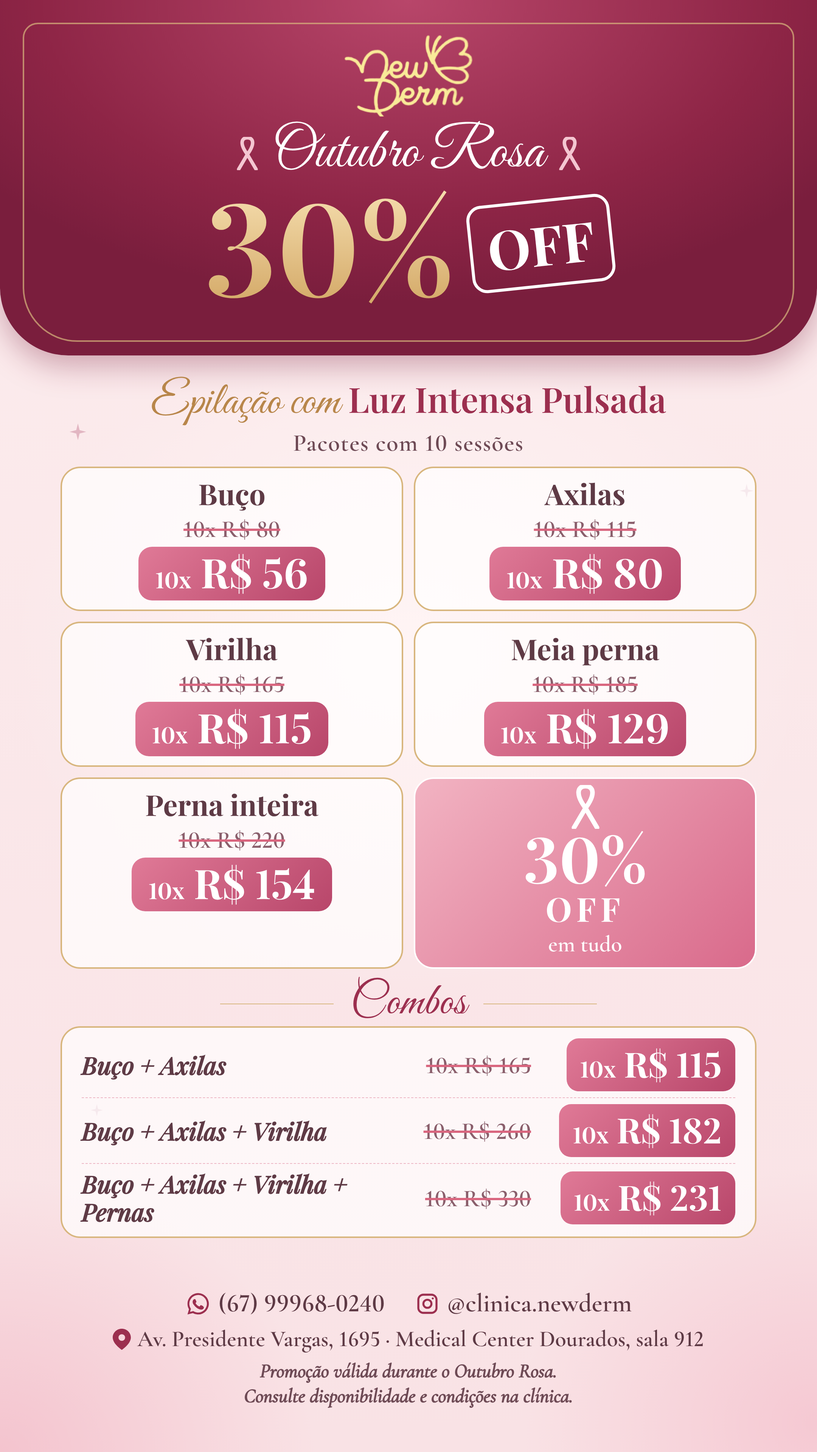
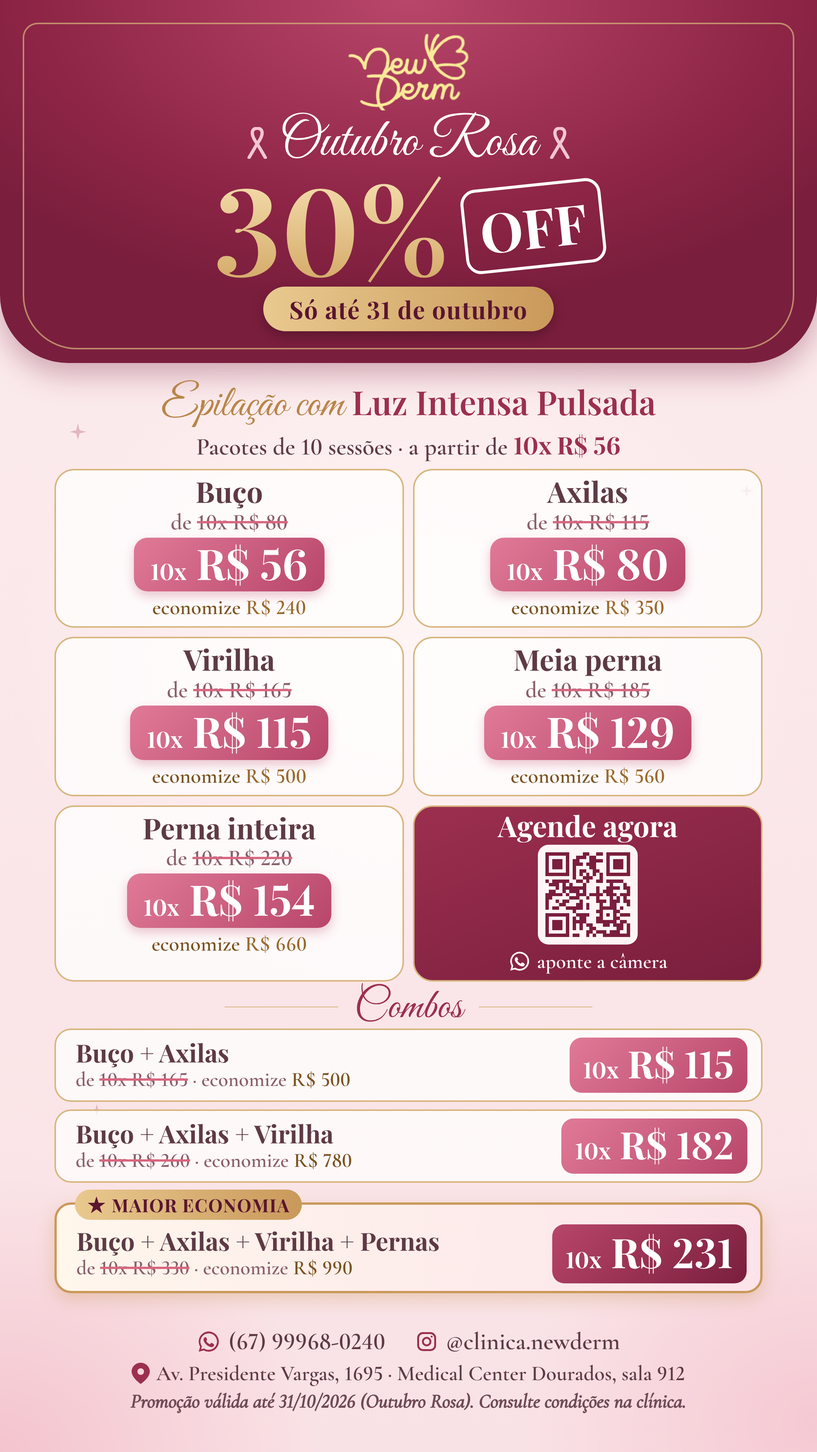
Opções B e C com foco em conversão: economia, prazo, destaque e CTA com QR
Claude-Session: https://claude.ai/code/session_01YCM2u15pHTsNBGbgB1w3ys

diff --git a/identidade-visual/modelo-tabela/opcao_b.html b/identidade-visual/modelo-tabela/opcao_b.html
@@ -118,50 +118,59 @@
   .note{max-width:820px;text-align:center;line-height:1.25}
 </style>
 <style>
-  .band{position:absolute;left:0;right:0;top:0;height:560px;border-radius:0 0 90px 90px;text-align:center;
-    background:radial-gradient(700px 400px at 50% 0%,#B8466A,#8E2546 70%,#7A1E3D);box-shadow:0 14px 40px rgba(122,30,61,.35)}
-  .band::after{content:"";position:absolute;left:30px;right:30px;bottom:18px;top:30px;border:2px solid rgba(216,182,126,.7);border-radius:20px 20px 72px 72px}
-  .blogo{width:190px;margin-top:58px;filter:brightness(1.25) saturate(1.1)}
-  .bros{font-family:"Great Vibes";color:#fff;font-size:84px;line-height:1;margin-top:6px;display:flex;align-items:center;justify-content:center;gap:18px}
-  .bbig{display:flex;align-items:center;justify-content:center;gap:20px;margin-top:-4px}
-  .bbig span{font-family:"Playfair Display";font-weight:700;font-size:210px;line-height:1;color:#F1D29B;
-    background:linear-gradient(180deg,#F8E2B4,#D3A866);-webkit-background-clip:text;color:transparent}
-  .bbig em{font-style:normal;font-family:"Playfair Display";font-weight:700;font-size:86px;color:#fff;border:4px solid #fff;border-radius:20px;padding:6px 20px;transform:rotate(-6deg)}
-  .bcontent{position:absolute;left:80px;right:80px;top:590px;text-align:center}
-  .btitle{font-family:"Playfair Display";font-weight:600;color:var(--wine);font-size:46px}
-  .btitle span{font-family:"Great Vibes";font-weight:400;color:var(--gold);font-size:60px}
-  .bsub{font-size:32px;font-weight:700;color:#6E4A55;margin-top:-4px;letter-spacing:1px}
-  .grid{display:grid;grid-template-columns:1fr 1fr;gap:18px;margin-top:18px}
-  .pc{background:rgba(255,255,255,.7);border:2px solid var(--gold-l);border-radius:26px;padding:14px 10px 16px}
-  .pn{font-family:"Playfair Display";font-weight:700;font-size:38px;color:#5E3A45}
-  .po{font-size:32px;font-weight:600;color:#8A5F6C;margin-top:2px} .po s{text-decoration-color:#D9667F;text-decoration-thickness:2.5px}
-  .pw{display:inline-block;margin-top:8px;font-family:"Playfair Display";font-weight:700;font-size:58px;line-height:1.1;color:#fff;
-    background:linear-gradient(135deg,#E07A97,#B8466A);border-radius:18px;padding:4px 22px 8px}
-  .pw small,.cw small{font-size:30px}
-  .seal{background:linear-gradient(135deg,#F2B3C2,#D96A8B);color:#fff;display:flex;flex-direction:column;align-items:center;justify-content:center;border-color:#fff}
-  .s1{font-family:"Playfair Display";font-weight:700;font-size:96px;line-height:.9}
-  .s2{font-family:"Playfair Display";font-weight:700;font-size:44px;letter-spacing:6px}
-  .s3{font-size:30px;font-weight:700}
-  .bsec{display:flex;align-items:center;justify-content:center;gap:22px;margin-top:14px}
-  .bsec span{font-family:"Great Vibes";color:var(--wine);font-size:66px;line-height:1}
-  .bsec i{width:150px;height:1.5px;background:var(--gold-l)}
-  .combos{background:rgba(255,255,255,.7);border:2px solid var(--gold-l);border-radius:26px;padding:6px 26px}
-  .cr{display:grid;grid-template-columns:1fr 170px 270px;align-items:center;padding:12px 0;border-bottom:1px dashed rgba(229,154,174,.7);text-align:left}
-  .cr:last-child{border-bottom:none}
-  .cn{font-family:"Playfair Display";font-style:italic;font-weight:600;font-size:32px;color:#5E3A45;line-height:1.15}
-  .co{font-size:32px;font-weight:600;color:#8A5F6C;text-align:right} .co s{text-decoration-color:#D9667F;text-decoration-thickness:2.5px}
-  .cw{justify-self:end;font-family:"Playfair Display";font-weight:700;font-size:50px;color:#fff;background:linear-gradient(135deg,#E07A97,#B8466A);border-radius:16px;padding:2px 18px 6px}
-  .deco[style*="right:110px;top:120px"],.deco[style*="left:250px;top:160px"],.deco[style*="left:60px;top:1010px"],.deco[style*="right:52px;top:1080px"]{display:none}
-  svg.deco[width="330"]{display:none}
+  .deco[style*="right:110px;top:120px"],.deco[style*="left:250px;top:160px"],.deco[style*="left:60px;top:1010px"],.deco[style*="right:52px;top:1080px"],svg.deco[width="330"]{display:none}
+  .xs{font-variant-numeric:lining-nums}
+  .ft{position:absolute;left:60px;right:60px;bottom:52px;text-align:center;color:#5E3A45}
+  .ftc{display:flex;justify-content:center;gap:40px;font-size:32px;font-weight:700}
+  .ftc span{display:flex;align-items:center;gap:10px}
+  .fta{display:flex;justify-content:center;align-items:center;gap:8px;font-size:28px;font-weight:600;margin-top:6px}
+  .ftn{font-size:26px;font-weight:600;font-style:italic;margin-top:4px;color:#6E4A55}
   .frame{display:none}
-  .band{height:470px} .blogo{width:170px;margin-top:46px;filter:brightness(1.75) saturate(.75)}
-  .bsec{margin-top:16px !important}
-  .bros{font-size:76px} .bbig span{font-size:170px} .bbig em{font-size:72px}
-  .bcontent{top:495px}
-  .grid{gap:14px;margin-top:12px} .pc{padding:8px 10px 12px} .pw{margin-top:4px;font-size:54px}
-  .s1{font-size:84px}
-  .bsec{margin-top:6px} .bsec span{font-size:60px}
-  .cr{padding:8px 0} .cw{font-size:46px}
+  .band{position:absolute;left:0;right:0;top:0;height:500px;border-radius:0 0 90px 90px;text-align:center;
+    background:radial-gradient(700px 400px at 50% 0%,#B8466A,#8E2546 70%,#7A1E3D);box-shadow:0 14px 40px rgba(122,30,61,.35)}
+  .band::after{content:"";position:absolute;left:30px;right:30px;bottom:18px;top:30px;border:2px solid rgba(216,182,126,.7);border-radius:20px 20px 72px 72px;pointer-events:none}
+  .blogo{width:160px;margin-top:44px;filter:brightness(1.75) saturate(.75)}
+  .bros{font-family:"Great Vibes";color:#fff;font-size:72px;line-height:1;margin-top:2px;display:flex;align-items:center;justify-content:center;gap:16px}
+  .bbig{display:flex;align-items:center;justify-content:center;gap:20px;margin-top:-6px}
+  .bbig span{font-family:"Playfair Display";font-weight:700;font-size:170px;line-height:1;background:linear-gradient(180deg,#F8E2B4,#D3A866);-webkit-background-clip:text;color:transparent}
+  .bbig em{font-style:normal;font-family:"Playfair Display";font-weight:700;font-size:72px;color:#fff;border:4px solid #fff;border-radius:20px;padding:4px 18px;transform:rotate(-6deg)}
+  .urg{display:inline-block;margin-top:2px;padding:8px 34px;border-radius:40px;background:linear-gradient(90deg,#E9C98F,#C9995A);color:#5A1530;
+    font-family:"Playfair Display";font-weight:700;font-size:32px;letter-spacing:1px;box-shadow:0 6px 16px rgba(0,0,0,.25)}
+  .bc{position:absolute;left:72px;right:72px;top:520px;text-align:center}
+  .bt{font-family:"Playfair Display";font-weight:600;color:var(--wine);font-size:44px}
+  .bt span{font-family:"Great Vibes";font-weight:400;color:var(--gold);font-size:58px}
+  .bs{font-size:32px;font-weight:600;color:#5E3A45;margin-top:-6px} .bs b{color:var(--wine);font-family:"Playfair Display"}
+  .grid{display:grid;grid-template-columns:1fr 1fr;gap:14px;margin-top:12px}
+  .pc{background:rgba(255,255,255,.75);border:2px solid var(--gold-l);border-radius:26px;padding:8px 10px 10px}
+  .pn{font-family:"Playfair Display";font-weight:700;font-size:38px;color:#5E3A45;line-height:1.15}
+  .po{font-size:30px;font-weight:600;color:#8A5F6C} .po s,.ce s{text-decoration-color:#D9667F;text-decoration-thickness:2.5px}
+  .pw{display:inline-block;margin-top:2px;font-family:"Playfair Display";font-weight:700;font-size:56px;line-height:1.1;color:#fff;
+    background:linear-gradient(135deg,#E07A97,#B8466A);border-radius:18px;padding:2px 22px 8px;box-shadow:0 6px 14px rgba(184,70,106,.3)}
+  .pw small,.cw small{font-size:30px}
+  .pe{font-size:28px;color:#8A6230;font-weight:600;margin-top:4px} .pe b,.ce b{color:#9A6A2E;font-weight:700}
+  .cta{background:linear-gradient(160deg,#9C2F4F,#7A1E3D);border-color:var(--gold-l);color:#fff;display:flex;flex-direction:column;align-items:center;justify-content:center;gap:6px}
+  .ct1{font-family:"Playfair Display";font-weight:700;font-size:38px;line-height:1}
+  .qr{width:132px;height:132px;background:#FFF5F6;border-radius:14px;padding:10px}
+  .qr svg{width:100%;height:100%}
+  .qr path[stroke]{stroke:#7A1E3D}
+  .ct2{display:flex;align-items:center;gap:8px;font-size:27px;font-weight:700}
+  .bsec{display:flex;align-items:center;justify-content:center;gap:22px;margin-top:12px}
+  .bsec span{font-family:"Great Vibes";color:var(--wine);font-size:60px;line-height:1}
+  .bsec i{width:150px;height:1.5px;background:var(--gold-l)}
+  .combos{display:flex;flex-direction:column;gap:12px}
+  .cr{position:relative;display:flex;align-items:center;justify-content:space-between;background:rgba(255,255,255,.75);border:2px solid var(--gold-l);border-radius:22px;padding:10px 18px 10px 26px;text-align:left}
+  .cn{font-family:"Playfair Display";font-weight:700;font-size:33px;color:#5E3A45;line-height:1.15}
+  .ce{font-size:27px;font-weight:600;color:#8A5F6C}
+  .cw{flex:none;font-family:"Playfair Display";font-weight:700;font-size:50px;color:#fff;background:linear-gradient(135deg,#E07A97,#B8466A);border-radius:16px;padding:0 18px 6px}
+  .best{border:3px solid #C9995A;background:linear-gradient(90deg,#FFF6EC,#FCE4EA);box-shadow:0 8px 22px rgba(201,153,90,.35);margin-top:12px}
+  .best .cw{background:linear-gradient(135deg,#B8466A,#7A1E3D);font-size:54px}
+  .badge{position:absolute;top:-20px;left:24px;background:linear-gradient(90deg,#E9C98F,#C9995A);color:#5A1530;font-family:"Playfair Display";font-weight:700;font-size:24px;letter-spacing:1px;padding:4px 16px;border-radius:20px}
+  .best{padding-top:26px;margin-top:16px}
+  .pe,.ce b{color:#7A5320} .pe{font-weight:700}
+  .combos{gap:10px}
+  .band{height:480px} .bbig span{font-size:160px} .urg{margin-top:0}
+  .bc{top:500px} .grid{gap:12px;margin-top:10px} .pc{padding:6px 10px 8px}
+  .bsec{margin-top:6px} .bsec span{font-size:56px}
 </style>
 </head>
 <body>
@@ -231,23 +240,21 @@
 
 <div class="band">
   <img class="blogo" src="../logo-newderm-dourado.png" alt="New Derm">
-  <div class="bros"><svg width="30" height="44" viewBox="0 0 26 38"><path d="M13 20 C4 8 6 1 13 1 C20 1 22 8 13 20 L3 37 M13 20 L23 37" stroke="#F4C6D1" stroke-width="4" fill="none" stroke-linecap="round"/></svg> Outubro Rosa <svg width="30" height="44" viewBox="0 0 26 38"><path d="M13 20 C4 8 6 1 13 1 C20 1 22 8 13 20 L3 37 M13 20 L23 37" stroke="#F4C6D1" stroke-width="4" fill="none" stroke-linecap="round"/></svg></div>
+  <div class="bros"><svg width="28" height="42" viewBox="0 0 26 38"><path d="M13 20 C4 8 6 1 13 1 C20 1 22 8 13 20 L3 37 M13 20 L23 37" stroke="#F4C6D1" stroke-width="4" fill="none" stroke-linecap="round"/></svg> Outubro Rosa <svg width="28" height="42" viewBox="0 0 26 38"><path d="M13 20 C4 8 6 1 13 1 C20 1 22 8 13 20 L3 37 M13 20 L23 37" stroke="#F4C6D1" stroke-width="4" fill="none" stroke-linecap="round"/></svg></div>
   <div class="bbig"><span>30%</span><em>OFF</em></div>
+  <div class="urg">Só até 31 de outubro</div>
 </div>
-<div class="bcontent">
-  <div class="btitle"><span>Epilação com</span> Luz Intensa Pulsada</div>
-  <div class="bsub">Pacotes com 10 sessões</div>
-  <div class="grid"><div class="pc"><div class="pn">Buço</div><div class="po"><s>10x R$ 80</s></div><div class="pw"><small>10x</small> R$ 56</div></div><div class="pc"><div class="pn">Axilas</div><div class="po"><s>10x R$ 115</s></div><div class="pw"><small>10x</small> R$ 80</div></div><div class="pc"><div class="pn">Virilha</div><div class="po"><s>10x R$ 165</s></div><div class="pw"><small>10x</small> R$ 115</div></div><div class="pc"><div class="pn">Meia perna</div><div class="po"><s>10x R$ 185</s></div><div class="pw"><small>10x</small> R$ 129</div></div><div class="pc"><div class="pn">Perna inteira</div><div class="po"><s>10x R$ 220</s></div><div class="pw"><small>10x</small> R$ 154</div></div><div class="pc seal"><svg width="40" height="58" viewBox="0 0 26 38"><path d="M13 20 C4 8 6 1 13 1 C20 1 22 8 13 20 L3 37 M13 20 L23 37" stroke="#fff" stroke-width="4" fill="none" stroke-linecap="round"/></svg><div class="s1">30%</div><div class="s2">OFF</div><div class="s3">em tudo</div></div></div>
+<div class="bc">
+  <div class="bt"><span>Epilação com</span> Luz Intensa Pulsada</div>
+  <div class="bs">Pacotes de 10 sessões · a partir de <b>10x R$ 56</b></div>
+  <div class="grid"><div class="pc"><div class="pn">Buço</div><div class="po">de <s>10x R$ 80</s></div><div class="pw"><small>10x</small> R$ 56</div><div class="pe">economize <b>R$ 240</b></div></div><div class="pc"><div class="pn">Axilas</div><div class="po">de <s>10x R$ 115</s></div><div class="pw"><small>10x</small> R$ 80</div><div class="pe">economize <b>R$ 350</b></div></div><div class="pc"><div class="pn">Virilha</div><div class="po">de <s>10x R$ 165</s></div><div class="pw"><small>10x</small> R$ 115</div><div class="pe">economize <b>R$ 500</b></div></div><div class="pc"><div class="pn">Meia perna</div><div class="po">de <s>10x R$ 185</s></div><div class="pw"><small>10x</small> R$ 129</div><div class="pe">economize <b>R$ 560</b></div></div><div class="pc"><div class="pn">Perna inteira</div><div class="po">de <s>10x R$ 220</s></div><div class="pw"><small>10x</small> R$ 154</div><div class="pe">economize <b>R$ 660</b></div></div><div class="pc cta"><div class="ct1">Agende agora</div><div class="qr"><svg xmlns="http://www.w3.org/2000/svg" viewBox="0 0 25 25" shape-rendering="crispEdges"><path stroke="#7A1E3D" d="M0 0.5h7m4 0h2m2 0h2m1 0h7M0 1.5h1m5 0h1m2 0h3m1 0h2m3 0h1m5 0h1M0 2.5h1m1 0h3m1 0h1m1 0h2m3 0h4m1 0h1m1 0h3m1 0h1M0 3.5h1m1 0h3m1 0h1m1 0h3m1 0h3m3 0h1m1 0h3m1 0h1M0 4.5h1m1 0h3m1 0h1m1 0h1m4 0h2m3 0h1m1 0h3m1 0h1M0 5.5h1m5 0h1m1 0h1m1 0h2m2 0h2m2 0h1m5 0h1M0 6.5h7m1 0h1m1 0h1m1 0h1m1 0h1m1 0h1m1 0h7M8 7.5h1m2 0h3m2 0h1M0 8.5h1m1 0h5m2 0h2m1 0h1m2 0h2m1 0h5M1 9.5h3m1 0h1m1 0h1m3 0h1m7 0h1m3 0h1M3 10.5h1m1 0h7m3 0h1m2 0h4m1 0h2M1 11.5h2m2 0h1m1 0h3m1 0h1m3 0h1m1 0h3m4 0h1M0 12.5h5m1 0h1m2 0h3m1 0h4m1 0h3m1 0h3M0 13.5h2m5 0h3m2 0h1m2 0h1m3 0h1m1 0h1m1 0h1M0 14.5h1m2 0h1m1 0h2m3 0h1m4 0h3m1 0h3m1 0h2M0 15.5h1m3 0h2m3 0h2m1 0h1m3 0h1m2 0h2m3 0h1M0 16.5h1m1 0h2m2 0h5m1 0h1m3 0h5m1 0h1M8 17.5h1m6 0h2m3 0h2M0 18.5h7m2 0h4m3 0h1m1 0h1m1 0h1m1 0h3M0 19.5h1m5 0h1m1 0h1m1 0h2m3 0h2m3 0h2M0 20.5h1m1 0h3m1 0h1m1 0h4m3 0h6m1 0h2M0 21.5h1m1 0h3m1 0h1m1 0h1m1 0h1m1 0h2m3 0h2m1 0h3m1 0h1M0 22.5h1m1 0h3m1 0h1m1 0h1m1 0h1m2 0h2m6 0h2m1 0h1M0 23.5h1m5 0h1m5 0h2m1 0h3m1 0h3m2 0h1M0 24.5h7m1 0h2m2 0h1m1 0h1m2 0h8"/></svg>
+</div><div class="ct2"><svg width="30" height="30" viewBox="0 0 24 24"><path fill="#fff" d="M12 2a10 10 0 0 0-8.6 15.1L2 22l5-1.3A10 10 0 1 0 12 2Zm0 18.2c-1.5 0-3-.4-4.3-1.2l-.3-.2-3 .8.8-2.9-.2-.3A8.2 8.2 0 1 1 12 20.2Zm4.5-6.1c-.2-.1-1.5-.7-1.7-.8-.2-.1-.4-.1-.6.1l-.8 1c-.1.2-.3.2-.5.1a6.7 6.7 0 0 1-3.3-2.9c-.3-.4.3-.4.7-1.3.1-.2 0-.3 0-.4l-.8-1.8c-.2-.5-.4-.4-.6-.4h-.5c-.2 0-.4.1-.7.3-.2.3-.9.9-.9 2.2s.9 2.5 1.1 2.7c.1.2 1.8 2.8 4.4 3.9 1.6.7 2.3.8 3.1.6.5-.1 1.5-.6 1.7-1.2.2-.6.2-1.1.2-1.2-.1-.1-.3-.2-.5-.3Z"/></svg> aponte a câmera</div></div></div>
   <div class="bsec"><i></i><span>Combos</span><i></i></div>
-  <div class="combos"><div class="cr"><span class="cn">Buço + Axilas</span><span class="co"><s>10x R$ 165</s></span><span class="cw"><small>10x</small> R$ 115</span></div><div class="cr"><span class="cn">Buço + Axilas + Virilha</span><span class="co"><s>10x R$ 260</s></span><span class="cw"><small>10x</small> R$ 182</span></div><div class="cr"><span class="cn">Buço + Axilas + Virilha + Pernas</span><span class="co"><s>10x R$ 330</s></span><span class="cw"><small>10x</small> R$ 231</span></div></div>
+  <div class="combos"><div class="cr"><div class="cl"><div class="cn">Buço + Axilas</div><div class="ce">de <s>10x R$ 165</s> · economize <b>R$ 500</b></div></div><span class="cw"><small>10x</small> R$ 115</span></div><div class="cr"><div class="cl"><div class="cn">Buço + Axilas + Virilha</div><div class="ce">de <s>10x R$ 260</s> · economize <b>R$ 780</b></div></div><span class="cw"><small>10x</small> R$ 182</span></div><div class="cr best"><div class="badge">★ MAIOR ECONOMIA</div><div class="cl"><div class="cn">Buço + Axilas + Virilha + Pernas</div><div class="ce">de <s>10x R$ 330</s> · economize <b>R$ 990</b></div></div><span class="cw"><small>10x</small> R$ 231</span></div></div>
 </div>
-<div class="footer">
-  <div class="contacts">
-    <div><svg width="34" height="34" viewBox="0 0 24 24"><path fill="#9C2F4F" d="M12 2a10 10 0 0 0-8.6 15.1L2 22l5-1.3A10 10 0 1 0 12 2Zm0 18.2c-1.5 0-3-.4-4.3-1.2l-.3-.2-3 .8.8-2.9-.2-.3A8.2 8.2 0 1 1 12 20.2Zm4.5-6.1c-.2-.1-1.5-.7-1.7-.8-.2-.1-.4-.1-.6.1l-.8 1c-.1.2-.3.2-.5.1a6.7 6.7 0 0 1-3.3-2.9c-.3-.4.3-.4.7-1.3.1-.2 0-.3 0-.4l-.8-1.8c-.2-.5-.4-.4-.6-.4h-.5c-.2 0-.4.1-.7.3-.2.3-.9.9-.9 2.2s.9 2.5 1.1 2.7c.1.2 1.8 2.8 4.4 3.9 1.6.7 2.3.8 3.1.6.5-.1 1.5-.6 1.7-1.2.2-.6.2-1.1.2-1.2-.1-.1-.3-.2-.5-.3Z"/></svg>(67) 99968-0240</div>
-    <div><svg width="32" height="32" viewBox="0 0 24 24" fill="none" stroke="#9C2F4F" stroke-width="2"><rect x="3" y="3" width="18" height="18" rx="5"/><circle cx="12" cy="12" r="4"/><circle cx="17.3" cy="6.7" r="1" fill="#9C2F4F" stroke="none"/></svg>@clinica.newderm</div>
-  </div>
-  <div class="addr"><svg width="24" height="28" viewBox="0 0 24 28"><path fill="#9C2F4F" d="M12 0C5.4 0 0 5.2 0 11.6 0 20 12 28 12 28s12-8 12-16.4C24 5.2 18.6 0 12 0Zm0 16a4.4 4.4 0 1 1 0-8.8 4.4 4.4 0 0 1 0 8.8Z"/></svg>Av. Presidente Vargas, 1695 · Medical Center Dourados, sala 912</div>
-  <div class="note">Promoção válida durante o Outubro Rosa.<br>Consulte disponibilidade e condições na clínica.</div>
+<div class="ft">
+  <div class="ftc"><span><svg width="32" height="32" viewBox="0 0 24 24"><path fill="#9C2F4F" d="M12 2a10 10 0 0 0-8.6 15.1L2 22l5-1.3A10 10 0 1 0 12 2Zm0 18.2c-1.5 0-3-.4-4.3-1.2l-.3-.2-3 .8.8-2.9-.2-.3A8.2 8.2 0 1 1 12 20.2Zm4.5-6.1c-.2-.1-1.5-.7-1.7-.8-.2-.1-.4-.1-.6.1l-.8 1c-.1.2-.3.2-.5.1a6.7 6.7 0 0 1-3.3-2.9c-.3-.4.3-.4.7-1.3.1-.2 0-.3 0-.4l-.8-1.8c-.2-.5-.4-.4-.6-.4h-.5c-.2 0-.4.1-.7.3-.2.3-.9.9-.9 2.2s.9 2.5 1.1 2.7c.1.2 1.8 2.8 4.4 3.9 1.6.7 2.3.8 3.1.6.5-.1 1.5-.6 1.7-1.2.2-.6.2-1.1.2-1.2-.1-.1-.3-.2-.5-.3Z"/></svg>(67) 99968-0240</span><span><svg width="30" height="30" viewBox="0 0 24 24" fill="none" stroke="#9C2F4F" stroke-width="2"><rect x="3" y="3" width="18" height="18" rx="5"/><circle cx="12" cy="12" r="4"/><circle cx="17.3" cy="6.7" r="1" fill="#9C2F4F" stroke="none"/></svg>@clinica.newderm</span></div>
+  <div class="fta"><svg width="24" height="28" viewBox="0 0 24 28"><path fill="#9C2F4F" d="M12 0C5.4 0 0 5.2 0 11.6 0 20 12 28 12 28s12-8 12-16.4C24 5.2 18.6 0 12 0Zm0 16a4.4 4.4 0 1 1 0-8.8 4.4 4.4 0 0 1 0 8.8Z"/></svg>Av. Presidente Vargas, 1695 · Medical Center Dourados, sala 912</div>
+  <div class="ftn">Promoção válida até 31/10/2026 (Outubro Rosa). Consulte condições na clínica.</div>
 </div>
-</body>
-</html>
+</body></html>

diff --git a/identidade-visual/modelo-tabela/opcao_c.html b/identidade-visual/modelo-tabela/opcao_c.html
@@ -118,34 +118,55 @@
   .note{max-width:820px;text-align:center;line-height:1.25}
 </style>
 <style>
-  .ccontent{position:absolute;left:78px;right:78px;top:78px}
-  .chead{display:flex;align-items:center;justify-content:space-between}
-  .clogo{width:180px}
-  .cros{font-family:"Great Vibes";color:var(--wine);font-size:80px;line-height:1;margin-top:4px}
-  .ctit{font-size:36px;color:#6E4A55;font-weight:600;line-height:1.15;margin-top:6px}
-  .ctit b{font-family:"Playfair Display";color:var(--wine);font-size:42px}
-  .circle{position:relative;width:400px;height:400px;border-radius:50%;flex:none;color:#fff;text-align:center;
+  .deco[style*="right:110px;top:120px"],.deco[style*="left:250px;top:160px"],.deco[style*="left:60px;top:1010px"],.deco[style*="right:52px;top:1080px"],svg.deco[width="330"]{display:none}
+  .xs{font-variant-numeric:lining-nums}
+  .ft{position:absolute;left:60px;right:60px;bottom:52px;text-align:center;color:#5E3A45}
+  .ftc{display:flex;justify-content:center;gap:40px;font-size:32px;font-weight:700}
+  .ftc span{display:flex;align-items:center;gap:10px}
+  .fta{display:flex;justify-content:center;align-items:center;gap:8px;font-size:28px;font-weight:600;margin-top:6px}
+  .ftn{font-size:26px;font-weight:600;font-style:italic;margin-top:4px;color:#6E4A55}
+  .cc{position:absolute;left:76px;right:76px;top:70px}
+  .ch{display:flex;align-items:center;justify-content:space-between}
+  .clogo{width:170px}
+  .cros{font-family:"Great Vibes";color:var(--wine);font-size:78px;line-height:1}
+  .cmsg{font-size:30px;font-weight:700;color:#6E4A55;line-height:1.2;margin-top:4px}
+  .ctit{font-size:30px;color:#6E4A55;font-weight:600;margin-top:8px;line-height:1.2;max-width:470px}
+  .ctit b{font-family:"Playfair Display";color:var(--wine);font-size:36px;display:block}
+  .cwrap{position:relative;flex:none}
+  .circle{position:relative;width:370px;height:370px;border-radius:50%;color:#fff;text-align:center;
     background:radial-gradient(circle at 35% 30%,#EE9AB0,#C9557A 60%,#9C2F4F);display:flex;flex-direction:column;align-items:center;justify-content:center;
     box-shadow:0 18px 40px rgba(156,47,79,.35);transform:rotate(-6deg)}
   .ring{position:absolute;inset:14px;border-radius:50%;border:3px dashed #F1D29B}
-  .c1{font-family:"Playfair Display";font-weight:700;font-size:150px;line-height:.9;margin-top:4px}
-  .c2{font-family:"Playfair Display";font-weight:700;font-size:62px;letter-spacing:10px;color:#F8E2B4;line-height:1}
-  .c3{font-size:28px;font-weight:700;margin-top:6px}
-  .lbl{display:flex;align-items:center;gap:18px;margin:26px 0 12px}
+  .c1{font-family:"Playfair Display";font-weight:700;font-size:150px;line-height:.9}
+  .c2{font-family:"Playfair Display";font-weight:700;font-size:64px;letter-spacing:10px;color:#F8E2B4;line-height:1}
+  .urg{position:absolute;left:50%;bottom:-6px;transform:translateX(-50%) rotate(-3deg);white-space:nowrap;padding:8px 30px;border-radius:40px;
+    background:linear-gradient(90deg,#E9C98F,#C9995A);color:#5A1530;font-family:"Playfair Display";font-weight:700;font-size:34px;box-shadow:0 6px 16px rgba(122,30,61,.3)}
+  .lbl{display:flex;align-items:center;gap:18px;margin:22px 0 10px}
   .lbl::before,.lbl::after{content:"";flex:1;height:1.5px;background:var(--gold-l)}
-  .lbl span{font-family:"Playfair Display";font-style:italic;font-weight:600;font-size:36px;color:var(--wine)}
-  .tk{display:flex;align-items:stretch;margin-bottom:12px;border-radius:22px;overflow:hidden;border:2px solid var(--gold-l);background:rgba(255,255,255,.75);height:104px}
-  .tl{flex:1;padding:10px 26px;display:flex;flex-direction:column;justify-content:center}
-  .tn{font-family:"Playfair Display";font-weight:700;font-size:38px;color:#5E3A45;line-height:1.1}
-  .tc .tn{font-size:33px}
-  .to{font-size:30px;font-weight:600;color:#8A5F6C} .to s{text-decoration-color:#D9667F;text-decoration-thickness:2.5px}
-  .tr{width:330px;position:relative;background:linear-gradient(135deg,#E07A97,#A8355A);color:#fff;display:flex;flex-direction:column;align-items:center;justify-content:center;border-left:3px dashed #fff}
-  .tp{font-size:26px;font-weight:700;letter-spacing:3px;text-transform:uppercase;line-height:1;opacity:.95}
-  .tv{font-family:"Playfair Display";font-weight:700;font-size:56px;line-height:1.05}
-  .tv small{font-size:30px}
-  .deco[style*="right:110px;top:120px"],.deco[style*="left:60px;top:1010px"],.deco[style*="right:52px;top:1080px"],.deco[style*="left:250px;top:160px"]{display:none}
-  svg.deco[width="330"]{display:none}
-  .tk{height:112px;margin-bottom:13px} .lbl{margin:30px 0 14px} .clogo{width:200px}
+  .lbl span{font-family:"Playfair Display";font-style:italic;font-weight:600;font-size:34px;color:var(--wine)}
+  .tk{position:relative;display:flex;align-items:stretch;margin-bottom:11px;border-radius:22px;border:2px solid var(--gold-l);background:rgba(255,255,255,.8);height:104px}
+  .tl{flex:1;padding:6px 24px;display:flex;flex-direction:column;justify-content:center}
+  .tn{font-family:"Playfair Display";font-weight:700;font-size:35px;color:#5E3A45;line-height:1.1}
+  .to{font-size:27px;font-weight:600;color:#8A5F6C;line-height:1.15;display:inline} .to s{text-decoration-color:#D9667F;text-decoration-thickness:2.5px}
+  .te{font-size:26px;font-weight:700;color:#9A6A2E;line-height:1.15}
+  .tr{width:300px;border-radius:0 20px 20px 0;background:linear-gradient(135deg,#E07A97,#A8355A);color:#fff;display:flex;flex-direction:column;align-items:center;justify-content:center;border-left:3px dashed #fff}
+  .tp{font-size:24px;font-weight:700;letter-spacing:3px;text-transform:uppercase;line-height:1}
+  .tv{font-family:"Playfair Display";font-weight:700;font-size:54px;line-height:1.05}
+  .tv small{font-size:28px}
+  .tk.best{border:3px solid #C9995A;background:linear-gradient(90deg,#FFF6EC,#FCE4EA);box-shadow:0 8px 22px rgba(201,153,90,.35);margin-top:20px;height:112px}
+  .tk.best .tr{background:linear-gradient(135deg,#B8466A,#7A1E3D)}
+  .badge{position:absolute;top:-20px;left:22px;background:linear-gradient(90deg,#E9C98F,#C9995A);color:#5A1530;font-family:"Playfair Display";font-weight:700;font-size:24px;letter-spacing:1px;padding:3px 16px;border-radius:20px}
+  .ctab{display:flex;align-items:center;gap:24px;margin-top:16px;padding:14px 22px;border-radius:26px;background:linear-gradient(135deg,#9C2F4F,#7A1E3D);border:2px solid var(--gold-l);color:#fff;box-shadow:0 10px 26px rgba(122,30,61,.3)}
+  .ctab .qr{width:128px;height:128px;flex:none;background:#FFF5F6;border-radius:14px;padding:10px}
+  .ctab .qr svg{width:100%;height:100%}
+  .c1t{font-family:"Playfair Display";font-weight:700;font-size:40px;line-height:1.1;color:#F8E2B4}
+  .c2t{display:flex;align-items:center;gap:10px;font-family:"Playfair Display";font-weight:700;font-size:44px}
+  .c3t{font-size:27px;font-weight:600}
+  .ft{bottom:50px}
+  .to{display:block;font-size:28px} .to b{color:#7A5320;font-weight:700}
+  .tk{height:106px;margin-bottom:12px}
+  .tk.best{height:124px;margin-top:24px} .tk.best .tl{padding-top:22px}
+  .lbl{margin:26px 0 12px}
 </style>
 </head>
 <body>
@@ -213,27 +234,27 @@
 <svg class="deco" style="right:120px;top:420px" width="14" height="14"><use href="#spark"/></svg>
 <svg class="deco" style="left:120px;top:1460px" width="16" height="16"><use href="#spark"/></svg>
 
-<div class="ccontent">
-  <div class="chead">
-    <div class="cleft">
+<div class="cc">
+  <div class="ch">
+    <div class="cl">
       <img class="clogo" src="../logo-newderm-dourado.png" alt="New Derm">
       <div class="cros">Outubro Rosa</div>
-      <div class="ctit">Epilação com<br><b>Luz Intensa Pulsada</b></div>
+      <div class="cmsg">Mês do autocuidado:<br>cuide de você pagando menos.</div>
+      <div class="ctit">Epilação com <b>Luz Intensa Pulsada</b></div>
     </div>
-    <div class="circle"><div class="ring"></div><svg width="34" height="50" viewBox="0 0 26 38"><path d="M13 20 C4 8 6 1 13 1 C20 1 22 8 13 20 L3 37 M13 20 L23 37" stroke="#fff" stroke-width="4" fill="none" stroke-linecap="round"/></svg><div class="c1">30%</div><div class="c2">OFF</div><div class="c3">pacotes e combos</div></div>
+    <div class="cwrap"><div class="circle"><div class="ring"></div><svg width="30" height="44" viewBox="0 0 26 38"><path d="M13 20 C4 8 6 1 13 1 C20 1 22 8 13 20 L3 37 M13 20 L23 37" stroke="#fff" stroke-width="4" fill="none" stroke-linecap="round"/></svg><div class="c1">30%</div><div class="c2">OFF</div></div>
+      <div class="urg">Só até 31/10</div></div>
   </div>
   <div class="lbl"><span>Pacotes · 10 sessões</span></div>
-  <div class="tk"><div class="tl"><div class="tn">Buço</div><div class="to">de <s>10x R$ 80</s></div></div><div class="tr"><div class="tp">por</div><div class="tv"><small>10x</small> R$ 56</div></div></div><div class="tk"><div class="tl"><div class="tn">Axilas</div><div class="to">de <s>10x R$ 115</s></div></div><div class="tr"><div class="tp">por</div><div class="tv"><small>10x</small> R$ 80</div></div></div><div class="tk"><div class="tl"><div class="tn">Virilha</div><div class="to">de <s>10x R$ 165</s></div></div><div class="tr"><div class="tp">por</div><div class="tv"><small>10x</small> R$ 115</div></div></div><div class="tk"><div class="tl"><div class="tn">Meia perna</div><div class="to">de <s>10x R$ 185</s></div></div><div class="tr"><div class="tp">por</div><div class="tv"><small>10x</small> R$ 129</div></div></div><div class="tk"><div class="tl"><div class="tn">Perna inteira</div><div class="to">de <s>10x R$ 220</s></div></div><div class="tr"><div class="tp">por</div><div class="tv"><small>10x</small> R$ 154</div></div></div>
+  <div class="tk"><div class="tl"><div class="tn">Buço</div><div class="to">de <s>10x R$ 80</s> · <b>economize R$ 240</b></div></div><div class="tr"><div class="tp">por</div><div class="tv"><small>10x</small> R$ 56</div></div></div><div class="tk"><div class="tl"><div class="tn">Axilas</div><div class="to">de <s>10x R$ 115</s> · <b>economize R$ 350</b></div></div><div class="tr"><div class="tp">por</div><div class="tv"><small>10x</small> R$ 80</div></div></div><div class="tk"><div class="tl"><div class="tn">Virilha</div><div class="to">de <s>10x R$ 165</s> · <b>economize R$ 500</b></div></div><div class="tr"><div class="tp">por</div><div class="tv"><small>10x</small> R$ 115</div></div></div><div class="tk"><div class="tl"><div class="tn">Meia perna</div><div class="to">de <s>10x R$ 185</s> · <b>economize R$ 560</b></div></div><div class="tr"><div class="tp">por</div><div class="tv"><small>10x</small> R$ 129</div></div></div><div class="tk"><div class="tl"><div class="tn">Perna inteira</div><div class="to">de <s>10x R$ 220</s> · <b>economize R$ 660</b></div></div><div class="tr"><div class="tp">por</div><div class="tv"><small>10x</small> R$ 154</div></div></div>
   <div class="lbl"><span>Combos</span></div>
-  <div class="tk tc"><div class="tl"><div class="tn">Buço + Axilas</div><div class="to">de <s>10x R$ 165</s></div></div><div class="tr"><div class="tp">por</div><div class="tv"><small>10x</small> R$ 115</div></div></div><div class="tk tc"><div class="tl"><div class="tn">Buço + Axilas + Virilha</div><div class="to">de <s>10x R$ 260</s></div></div><div class="tr"><div class="tp">por</div><div class="tv"><small>10x</small> R$ 182</div></div></div><div class="tk tc"><div class="tl"><div class="tn">Buço + Axilas + Virilha + Pernas</div><div class="to">de <s>10x R$ 330</s></div></div><div class="tr"><div class="tp">por</div><div class="tv"><small>10x</small> R$ 231</div></div></div>
+  <div class="tk"><div class="tl"><div class="tn">Buço + Axilas</div><div class="to">de <s>10x R$ 165</s> · <b>economize R$ 500</b></div></div><div class="tr"><div class="tp">por</div><div class="tv"><small>10x</small> R$ 115</div></div></div><div class="tk"><div class="tl"><div class="tn">Buço + Axilas + Virilha</div><div class="to">de <s>10x R$ 260</s> · <b>economize R$ 780</b></div></div><div class="tr"><div class="tp">por</div><div class="tv"><small>10x</small> R$ 182</div></div></div><div class="tk best"><div class="badge">★ MAIOR ECONOMIA</div><div class="tl"><div class="tn">Buço + Axilas + Virilha + Pernas</div><div class="to">de <s>10x R$ 330</s> · <b>economize R$ 990</b></div></div><div class="tr"><div class="tp">por</div><div class="tv"><small>10x</small> R$ 231</div></div></div>
+  <div class="ctab"><div class="qr"><svg xmlns="http://www.w3.org/2000/svg" viewBox="0 0 25 25" shape-rendering="crispEdges"><path stroke="#7A1E3D" d="M0 0.5h7m4 0h2m2 0h2m1 0h7M0 1.5h1m5 0h1m2 0h3m1 0h2m3 0h1m5 0h1M0 2.5h1m1 0h3m1 0h1m1 0h2m3 0h4m1 0h1m1 0h3m1 0h1M0 3.5h1m1 0h3m1 0h1m1 0h3m1 0h3m3 0h1m1 0h3m1 0h1M0 4.5h1m1 0h3m1 0h1m1 0h1m4 0h2m3 0h1m1 0h3m1 0h1M0 5.5h1m5 0h1m1 0h1m1 0h2m2 0h2m2 0h1m5 0h1M0 6.5h7m1 0h1m1 0h1m1 0h1m1 0h1m1 0h1m1 0h7M8 7.5h1m2 0h3m2 0h1M0 8.5h1m1 0h5m2 0h2m1 0h1m2 0h2m1 0h5M1 9.5h3m1 0h1m1 0h1m3 0h1m7 0h1m3 0h1M3 10.5h1m1 0h7m3 0h1m2 0h4m1 0h2M1 11.5h2m2 0h1m1 0h3m1 0h1m3 0h1m1 0h3m4 0h1M0 12.5h5m1 0h1m2 0h3m1 0h4m1 0h3m1 0h3M0 13.5h2m5 0h3m2 0h1m2 0h1m3 0h1m1 0h1m1 0h1M0 14.5h1m2 0h1m1 0h2m3 0h1m4 0h3m1 0h3m1 0h2M0 15.5h1m3 0h2m3 0h2m1 0h1m3 0h1m2 0h2m3 0h1M0 16.5h1m1 0h2m2 0h5m1 0h1m3 0h5m1 0h1M8 17.5h1m6 0h2m3 0h2M0 18.5h7m2 0h4m3 0h1m1 0h1m1 0h1m1 0h3M0 19.5h1m5 0h1m1 0h1m1 0h2m3 0h2m3 0h2M0 20.5h1m1 0h3m1 0h1m1 0h4m3 0h6m1 0h2M0 21.5h1m1 0h3m1 0h1m1 0h1m1 0h1m1 0h2m3 0h2m1 0h3m1 0h1M0 22.5h1m1 0h3m1 0h1m1 0h1m1 0h1m2 0h2m6 0h2m1 0h1M0 23.5h1m5 0h1m5 0h2m1 0h3m1 0h3m2 0h1M0 24.5h7m1 0h2m2 0h1m1 0h1m2 0h8"/></svg>
+</div><div class="ctt"><div class="c1t">Garanta seu desconto</div><div class="c2t"><svg width="40" height="40" viewBox="0 0 24 24"><path fill="#fff" d="M12 2a10 10 0 0 0-8.6 15.1L2 22l5-1.3A10 10 0 1 0 12 2Zm0 18.2c-1.5 0-3-.4-4.3-1.2l-.3-.2-3 .8.8-2.9-.2-.3A8.2 8.2 0 1 1 12 20.2Zm4.5-6.1c-.2-.1-1.5-.7-1.7-.8-.2-.1-.4-.1-.6.1l-.8 1c-.1.2-.3.2-.5.1a6.7 6.7 0 0 1-3.3-2.9c-.3-.4.3-.4.7-1.3.1-.2 0-.3 0-.4l-.8-1.8c-.2-.5-.4-.4-.6-.4h-.5c-.2 0-.4.1-.7.3-.2.3-.9.9-.9 2.2s.9 2.5 1.1 2.7c.1.2 1.8 2.8 4.4 3.9 1.6.7 2.3.8 3.1.6.5-.1 1.5-.6 1.7-1.2.2-.6.2-1.1.2-1.2-.1-.1-.3-.2-.5-.3Z"/></svg> (67) 99968-0240</div><div class="c3t">Aponte a câmera ou chame no WhatsApp</div></div></div>
 </div>
-<div class="footer">
-  <div class="contacts">
-    <div><svg width="34" height="34" viewBox="0 0 24 24"><path fill="#9C2F4F" d="M12 2a10 10 0 0 0-8.6 15.1L2 22l5-1.3A10 10 0 1 0 12 2Zm0 18.2c-1.5 0-3-.4-4.3-1.2l-.3-.2-3 .8.8-2.9-.2-.3A8.2 8.2 0 1 1 12 20.2Zm4.5-6.1c-.2-.1-1.5-.7-1.7-.8-.2-.1-.4-.1-.6.1l-.8 1c-.1.2-.3.2-.5.1a6.7 6.7 0 0 1-3.3-2.9c-.3-.4.3-.4.7-1.3.1-.2 0-.3 0-.4l-.8-1.8c-.2-.5-.4-.4-.6-.4h-.5c-.2 0-.4.1-.7.3-.2.3-.9.9-.9 2.2s.9 2.5 1.1 2.7c.1.2 1.8 2.8 4.4 3.9 1.6.7 2.3.8 3.1.6.5-.1 1.5-.6 1.7-1.2.2-.6.2-1.1.2-1.2-.1-.1-.3-.2-.5-.3Z"/></svg>(67) 99968-0240</div>
-    <div><svg width="32" height="32" viewBox="0 0 24 24" fill="none" stroke="#9C2F4F" stroke-width="2"><rect x="3" y="3" width="18" height="18" rx="5"/><circle cx="12" cy="12" r="4"/><circle cx="17.3" cy="6.7" r="1" fill="#9C2F4F" stroke="none"/></svg>@clinica.newderm</div>
-  </div>
-  <div class="addr"><svg width="24" height="28" viewBox="0 0 24 28"><path fill="#9C2F4F" d="M12 0C5.4 0 0 5.2 0 11.6 0 20 12 28 12 28s12-8 12-16.4C24 5.2 18.6 0 12 0Zm0 16a4.4 4.4 0 1 1 0-8.8 4.4 4.4 0 0 1 0 8.8Z"/></svg>Av. Presidente Vargas, 1695 · Medical Center Dourados, sala 912</div>
-  <div class="note">Promoção válida durante o Outubro Rosa.<br>Consulte disponibilidade e condições na clínica.</div>
+<div class="ft">
+  <div class="ftc"><span><svg width="30" height="30" viewBox="0 0 24 24" fill="none" stroke="#9C2F4F" stroke-width="2"><rect x="3" y="3" width="18" height="18" rx="5"/><circle cx="12" cy="12" r="4"/><circle cx="17.3" cy="6.7" r="1" fill="#9C2F4F" stroke="none"/></svg>@clinica.newderm</span></div>
+  <div class="fta"><svg width="24" height="28" viewBox="0 0 24 28"><path fill="#9C2F4F" d="M12 0C5.4 0 0 5.2 0 11.6 0 20 12 28 12 28s12-8 12-16.4C24 5.2 18.6 0 12 0Zm0 16a4.4 4.4 0 1 1 0-8.8 4.4 4.4 0 0 1 0 8.8Z"/></svg>Av. Presidente Vargas, 1695 · Medical Center Dourados, sala 912</div>
+  <div class="ftn">Promoção válida até 31/10/2026 (Outubro Rosa). Consulte condições na clínica.</div>
 </div>
-</body>
-</html>
+</body></html>

diff --git a/identidade-visual/README.md b/identidade-visual/README.md
@@ -45,3 +45,13 @@ Premium e elegante: o dourado e o vinho dão o ar sofisticado; o rosa dá o acol
 `modelo-tabela/tabela.html` (opção A), `opcao_b.html` (faixa vinho + cards) e `opcao_c.html` (selo circular + cupons) — Story 1080×1920, fontes locais em `modelo-tabela/fonts/`).
 Para exportar PNG em 2x: `cd modelo-tabela && npm i playwright-core && node render.js saida.png [arquivo.html]`
 (usa o Google Chrome instalado; ou defina `CHROME_PATH`).
+
+## Comunicação e psicologia de venda (padrão das peças promocionais)
+- Hierarquia: 1º o desconto (% OFF), 2º o preço final, 3º a chamada para ação. O resto apoia.
+- Ancoragem: preço normal riscado ao lado do preço promocional.
+- Ganho concreto: mostrar "economize R$ X" (total do pacote), que pesa mais que só a %.
+- Gancho de entrada: "a partir de 10x R$ 56" logo abaixo do título.
+- Urgência verdadeira: prazo real da campanha (ex.: "Só até 31 de outubro"). Nunca inventar escassez ("últimas vagas") nem prova social sem dados.
+- Destaque de decisão: selo dourado "★ Maior economia" no combo completo, que guia para o ticket maior.
+- Chamada para ação clara: bloco vinho com QR code do WhatsApp (wa.me/5567999680240) + telefone grande.
+- Tom emocional ligado à campanha (Outubro Rosa = autocuidado), sem perder a delicadeza da marca.
